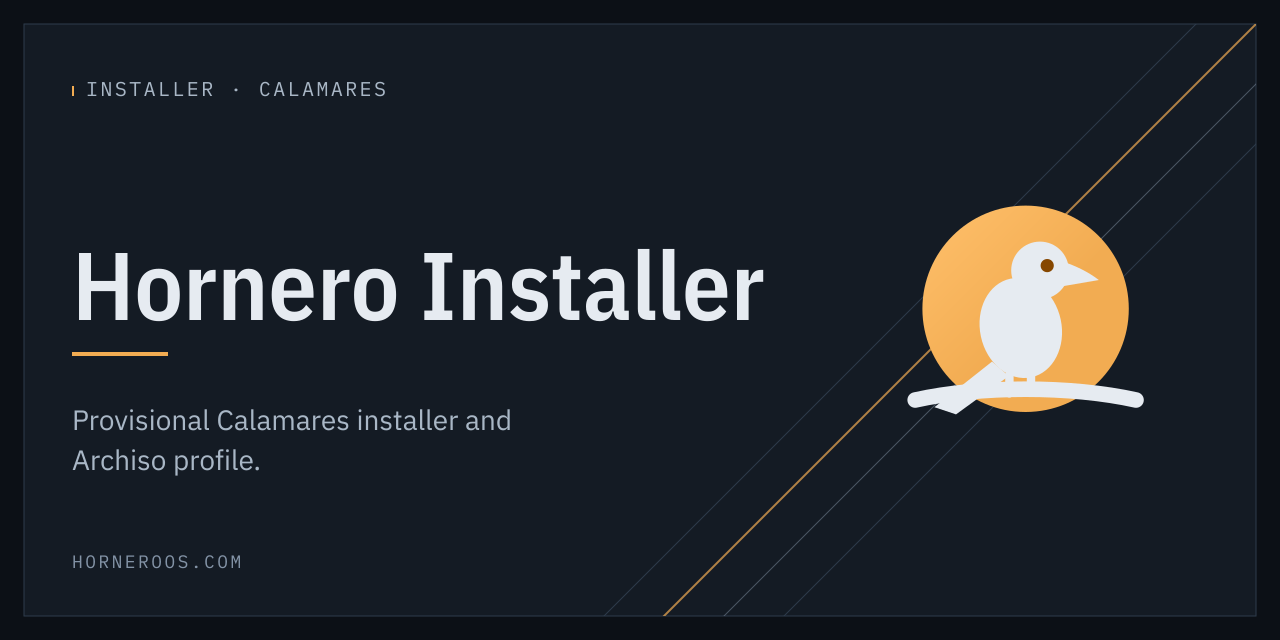
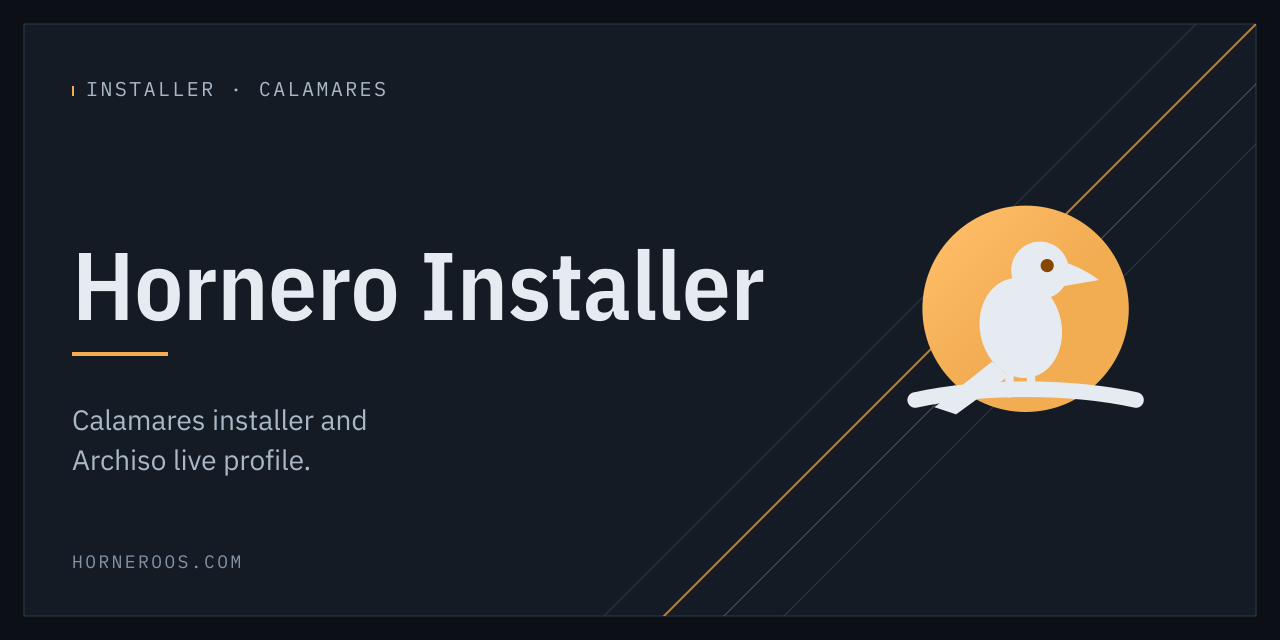
docs: reflect daily-driven status across editions and compositors

Changed region(s): [[0.0625, 0.625, 0.4062, 0.75]]

diff --git a/scripts/render-social-previews.py b/scripts/render-social-previews.py
@@ -52,7 +52,7 @@ CARDS = [
     ("plugins", "PLUGINS · PLUGINKIT", "Hornero Plugins",
      ["First-party extensions, curated catalogue,", "templates and validation."]),
     ("installer", "INSTALLER · CALAMARES", "Hornero Installer",
-     ["Provisional Calamares installer and", "Archiso profile."]),
+     ["Calamares installer and", "Archiso live profile."]),
     ("greeter", "GREETER · SDDM", "Hornero Greeter",
      ["The SDDM login screen and its", "session integration."]),
 ]

diff --git a/docs/NIRI.md b/docs/NIRI.md
@@ -1,10 +1,9 @@
 # HorneroOS Desktop on Niri
 
-Niri is an experimental Wayland compositor backend for HorneroOS Desktop.
-Hyprland remains the validated default. A packaged Niri config and shared
-Shell backend are not enough to call the session supported; the current
-acceptance covers a single-output graphical VM journey, with multi-output and
-portal/recording coverage still open.
+Niri is a Wayland compositor backend for HorneroOS Desktop, complementing
+the primary Hyprland session. It ships with packaged Niri defaults and a shared
+Shell adapter, with a passing single-output graphical baseline and explicit
+capability boundaries documented below.
 
 ## Session configuration
 
@@ -18,8 +17,7 @@ The config package materializes the same file to `~/.config/niri/config.kdl`
 for user setup and to `/etc/niri/config.kdl` as a fallback. Niri checks the
 user's XDG config first and falls back to `/etc/niri/config.kdl`. The package
 does not install the Niri compositor itself or overwrite a user's Niri file
-during the running session. Install Niri separately to experiment with this
-backend.
+during the running session. Install Niri separately to use this backend.
 
 | Key | Hornero action |
 | --- | --- |
@@ -84,13 +82,13 @@ screenshot action. The run also verifies that the desktop portal exports
 end-to-end OBS recording. The host itself remains on Hyprland. This is a real
 one-output session, not config parsing alone, but it does not establish
 multi-output focus, lock/session recovery, actual screencast capture, external
-GTK/Qt app agreement, or the remaining Shell surface matrix. Niri therefore
-remains experimental.
+GTK/Qt app agreement, or the remaining Shell surface matrix. The capability
+boundaries above remain documented explicitly rather than emulated.
 
 The repeatable acceptance scenario is
 [`HorneroOS/qa/scenarios/compositors/niri-desktop-baseline.yaml`](https://github.com/HorneroOS/qa/blob/main/scenarios/compositors/niri-desktop-baseline.yaml).
 Its October 6, 2026 run used the `niri-main-20261006` image built from Shell
-`2608fdee`, Config `e4ebd349`, and `horneroctl` preview15 (`7471351`); all
+`2608fdee`, Config `e4ebd349`, and `horneroctl` (`7471351`); all
 scenario actions and assertions passed. The run is recorded under ID
 `20261006T172058Z-compositors-niri-desktop-baseline-1`; `hornero-qa inspect`
 shows its per-step screenshots and JSON probes alongside the IPC evidence.

diff --git a/README.md b/README.md
@@ -50,15 +50,16 @@ that in CI.
 
 ## Status
 
-HorneroOS Desktop is Wayland-first. Hyprland remains the supported session.
-Niri 26.04 has a passing single-output Hornero QA baseline covering Shell
-startup, workspace/window state and switching, Launcher, a theme change
-(Hornero Light, recorded before Hornero Signal), package wallpaper
-discovery, Appearance, Layout Picker, lock/unlock, screencast portal presence, and screenshot capture. Niri remains experimental
-while multiple outputs, HiDPI, actual OBS capture, notifications, recovery,
-and the broader Shell surface matrix are validated. The defaults include
-Niri's upstream 26.04 configuration, Hornero Shell startup, Hornero shortcuts,
-native screenshot selection, and the compositor-specific
+HorneroOS is daily-driven across physical workstations and validated in UEFI and
+BIOS KVM environments. HorneroOS Desktop is Wayland-first: Hyprland is the
+primary session, and Niri 26.04 is supported via packaged defaults and the
+shared Shell adapter. Niri has a passing single-output Hornero QA baseline
+covering Shell startup, workspace/window state and switching, Launcher, theme
+switching, package wallpaper discovery, Appearance, Layout Picker, lock/unlock,
+screencast portal presence, and screenshot capture; multi-output, HiDPI, and
+OBS capture validation remain tracked in [`docs/NIRI.md`](docs/NIRI.md). The
+defaults include Niri's upstream 26.04 configuration, Hornero Shell startup,
+Hornero shortcuts, native screenshot selection, and the compositor-specific
 `/etc/niri/config.kdl` package fallback. This does not claim full feature
 parity: Niri currently has no special workspaces, Hyprland-native window
 previews, or Hyprland window geometry picker. See

diff --git a/docs/assets/niri-layout-picker.md b/docs/assets/niri-layout-picker.md
@@ -3,5 +3,5 @@
 Captured from the isolated Hornero Niri QEMU guest on 2026-10-04 at 1280×800.
 The image shows Hornero Shell's Layout Picker with Hornero Left selected while
 Niri is the active compositor. Input was exercised through the guest keyboard
-and pointer. This is an experimental single-output proof; it does not certify
+and pointer. This is a single-output capture; it does not certify
 multi-monitor, portal recording, or all desktop surfaces.

diff --git a/docs/FASTFETCH.md b/docs/FASTFETCH.md
@@ -7,7 +7,7 @@ everything coloured with terminal palette **roles**, never RGB.
 
 ```
  [hornero]   ▌ HORNERO OS  rolling / config 0.3.21
-             EDITION  Desktop (preview)
+             EDITION  Desktop
              MODE     signal / cockpit
              THEME    hornero-signal-night (dark)
              CHROMA   wallpaper / vibrant
